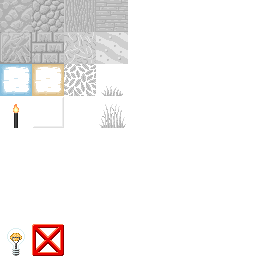
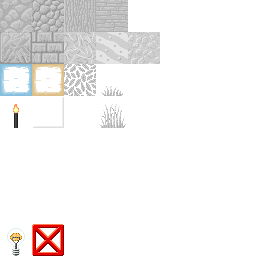
Added dirt texture, fixes

Changed region(s): [[0.5, 0.125, 0.625, 0.25]]

diff --git a/src/LAB_block.c b/src/LAB_block.c
@@ -34,12 +34,12 @@ LAB_Block LAB_BLOCK_AIR = {
     .dia = LAB_RGB(255, 255, 255),
 };
 
-LAB_DEF_STONE_BLOCKS(BASALT,    LAB_RGB(80, 70, 60));
-LAB_DEF_STONE_BLOCKS(STONE,     LAB_RGB(180, 180, 170));
-LAB_DEF_STONE_BLOCKS(MARBLE,    LAB_RGB(255, 255, 255));
-LAB_DEF_STONE_BLOCKS(CLAY,      LAB_RGB(200, 80, 50));
-LAB_DEF_STONE_BLOCKS(LAPIZ,     LAB_RGB(30, 80, 200));
-LAB_DEF_STONE_BLOCKS(SANDSTONE, LAB_RGB(255, 230, 150)); //.tint = LAB_RGB(236, 223, 179),
+LAB_DEF_BLOCK_GROUP_STONE(BASALT,    LAB_RGB(80, 70, 60));
+LAB_DEF_BLOCK_GROUP_STONE(STONE,     LAB_RGB(180, 180, 170));
+LAB_DEF_BLOCK_GROUP_STONE(MARBLE,    LAB_RGB(255, 255, 255));
+LAB_DEF_BLOCK_GROUP_STONE(CLAY,      LAB_RGB(200, 80, 50));
+LAB_DEF_BLOCK_GROUP_STONE(LAPIZ,     LAB_RGB(30, 80, 200));
+LAB_DEF_BLOCK_GROUP_STONE(SANDSTONE, LAB_RGB(255, 230, 150)); //.tint = LAB_RGB(236, 223, 179),
 
 LAB_DEF_MODEL_CUBE_ALL(LAB_MODEL_SAND, 3, 1, LAB_RGB(255, 230, 130),);
 LAB_Block LAB_BLOCK_SAND = {
@@ -126,11 +126,11 @@ LAB_Block LAB_BLOCK_GRASS = {
     .model = &LAB_MODEL_GRASS,
 };
 
-LAB_DEF_MODEL_CUBE_ALL(LAB_MODEL_DIRT, 3, 1, LAB_RGB(120, 80, 50),);
+LAB_DEF_MODEL_CUBE_ALL(LAB_MODEL_DIRT, 4, 1, LAB_RGB(120, 80, 50),);
 LAB_Block LAB_BLOCK_DIRT = {
     .flags = LAB_BLOCK_SOLID,
     .item_tint = LAB_RGB(120, 80, 50),
-    .item_tx = 3, 1,
+    .item_tx = 4, 1,
     .model = &LAB_MODEL_DIRT,
 };
 
@@ -222,12 +222,12 @@ LAB_Block LAB_BLOCK_BARRIER = {
 
 LAB_Block* LAB_blocks_arr[] =
 {
-    LAB_ENM_STONE_BLOCKS(&,BASALT),
-    LAB_ENM_STONE_BLOCKS(&,STONE),
-    LAB_ENM_STONE_BLOCKS(&,MARBLE),
-    LAB_ENM_STONE_BLOCKS(&,CLAY),
-    LAB_ENM_STONE_BLOCKS(&,LAPIZ),
-    LAB_ENM_STONE_BLOCKS(&,SANDSTONE),
+    LAB_ENM_BLOCK_GROUP_STONE(&,BASALT),
+    LAB_ENM_BLOCK_GROUP_STONE(&,STONE),
+    LAB_ENM_BLOCK_GROUP_STONE(&,MARBLE),
+    LAB_ENM_BLOCK_GROUP_STONE(&,CLAY),
+    LAB_ENM_BLOCK_GROUP_STONE(&,LAPIZ),
+    LAB_ENM_BLOCK_GROUP_STONE(&,SANDSTONE),
     &LAB_BLOCK_SAND,
     &LAB_BLOCK_GLASS,
     &LAB_BLOCK_LEAVES,

diff --git a/include/LAB_blt_block.h b/include/LAB_blt_block.h
@@ -2,13 +2,30 @@
 
 #include "LAB_blt_model.h"
 
-#define LAB_ENM_STONE_BLOCKS(prefix, name) \
+
+// TODO: remove LAB_BLOCK_ prefix
+
+#define LAB_ENM_BLOCK_CUBE(prefix, name) \
+    prefix LAB_BLOCK_##name
+
+#define LAB_DEF_BLOCK_CUBE(name, tx, ty, color, model_render_pass, block_flags) \
+    LAB_DEF_MODEL_CUBE_ALL(LAB_MODEL_##name, 0, 0, color, \
+                    .render_pass = model_render_pass); \
+    LAB_Block LAB_BLOCK_##name = { \
+        .flags = block_flags, \
+        .item_tint = color, \
+        .item_tx = tx, ty, \
+        .model = &LAB_MODEL_##name, \
+    }; \
+
+
+#define LAB_ENM_BLOCK_GROUP_STONE(prefix, name) \
     prefix LAB_BLOCK_##name, \
     prefix LAB_BLOCK_##name##_COBBLE, \
     prefix LAB_BLOCK_##name##_BRICKS, \
     prefix LAB_BLOCK_##name##_SMOOTH
 
-#define LAB_DEF_STONE_BLOCKS(name, color) \
+#define LAB_DEF_BLOCK_GROUP_STONE(name, color) \
     LAB_DEF_MODEL_CUBE_ALL(LAB_MODEL_##name, 0, 0, color, \
                     .render_pass = LAB_RENDER_PASS_SOLID); \
     LAB_Block LAB_BLOCK_##name = { \

diff --git a/src/LAB_view_input.c b/src/LAB_view_input.c
@@ -522,12 +522,13 @@ void LAB_ViewInputTick(LAB_ViewInput* view_input, uint32_t delta_ms)
 
         if(kbstate[SDL_SCANCODE_LALT])
         {
-            if(mbstate == SDL_BUTTON(SDL_BUTTON_LEFT) || mbstate == SDL_BUTTON(SDL_BUTTON_RIGHT))
-            {
-                //for(int i=0; i < 10; ++i)
-                //    if(LAB_ViewInputInteract(view_input, !!(mbstate & SDL_BUTTON(SDL_BUTTON_RIGHT)))) break;
-                LAB_ViewInputInteract(view_input, !!(mbstate & SDL_BUTTON(SDL_BUTTON_RIGHT)));
-            }
+            //for(int i=0; i < 10; ++i)
+            //    if(LAB_ViewInputInteract(view_input, !!(mbstate & SDL_BUTTON(SDL_BUTTON_RIGHT)))) break;
+            int button = 0;
+            if(mbstate & SDL_BUTTON(SDL_BUTTON_MIDDLE)) button = SDL_BUTTON_MIDDLE;
+            if(mbstate & SDL_BUTTON(SDL_BUTTON_RIGHT))  button = SDL_BUTTON_RIGHT;
+            if(mbstate & SDL_BUTTON(SDL_BUTTON_LEFT))   button = SDL_BUTTON_LEFT;
+            if(button) LAB_ViewInputInteract(view_input, button);
         }
     }
 

diff --git a/include/LAB_block.h b/include/LAB_block.h
@@ -58,12 +58,12 @@ IXO_DECLARE_CLASS(LAB_Block);
 
 extern LAB_Block LAB_BLOCK_OUTSIDE,
                  LAB_BLOCK_AIR,
-                 LAB_ENM_STONE_BLOCKS(,BASALT),
-                 LAB_ENM_STONE_BLOCKS(,STONE),
-                 LAB_ENM_STONE_BLOCKS(,MARBLE),
-                 LAB_ENM_STONE_BLOCKS(,CLAY),
-                 LAB_ENM_STONE_BLOCKS(,LAPIZ),
-                 LAB_ENM_STONE_BLOCKS(,SANDSTONE),
+                 LAB_ENM_BLOCK_GROUP_STONE(,BASALT),
+                 LAB_ENM_BLOCK_GROUP_STONE(,STONE),
+                 LAB_ENM_BLOCK_GROUP_STONE(,MARBLE),
+                 LAB_ENM_BLOCK_GROUP_STONE(,CLAY),
+                 LAB_ENM_BLOCK_GROUP_STONE(,LAPIZ),
+                 LAB_ENM_BLOCK_GROUP_STONE(,SANDSTONE),
                  LAB_BLOCK_SAND,
                  LAB_BLOCK_GLASS,
                  LAB_BLOCK_LEAVES,

diff --git a/include/LAB_crammed_chunk_pos_set.h b/include/LAB_crammed_chunk_pos_set.h
@@ -40,6 +40,8 @@ LAB_CCPS LAB_CCPS_AddPos(LAB_CCPS set, int x, int y, int z)
 
     // add hashtable entry
     set |= (1ull<<48) << LAB_CCPS_PosHash(x, y, z);
+
+    return set;
 }
 
 #define LAB_CCPS_EACH_POS(set, x, y, z, execute) do \
